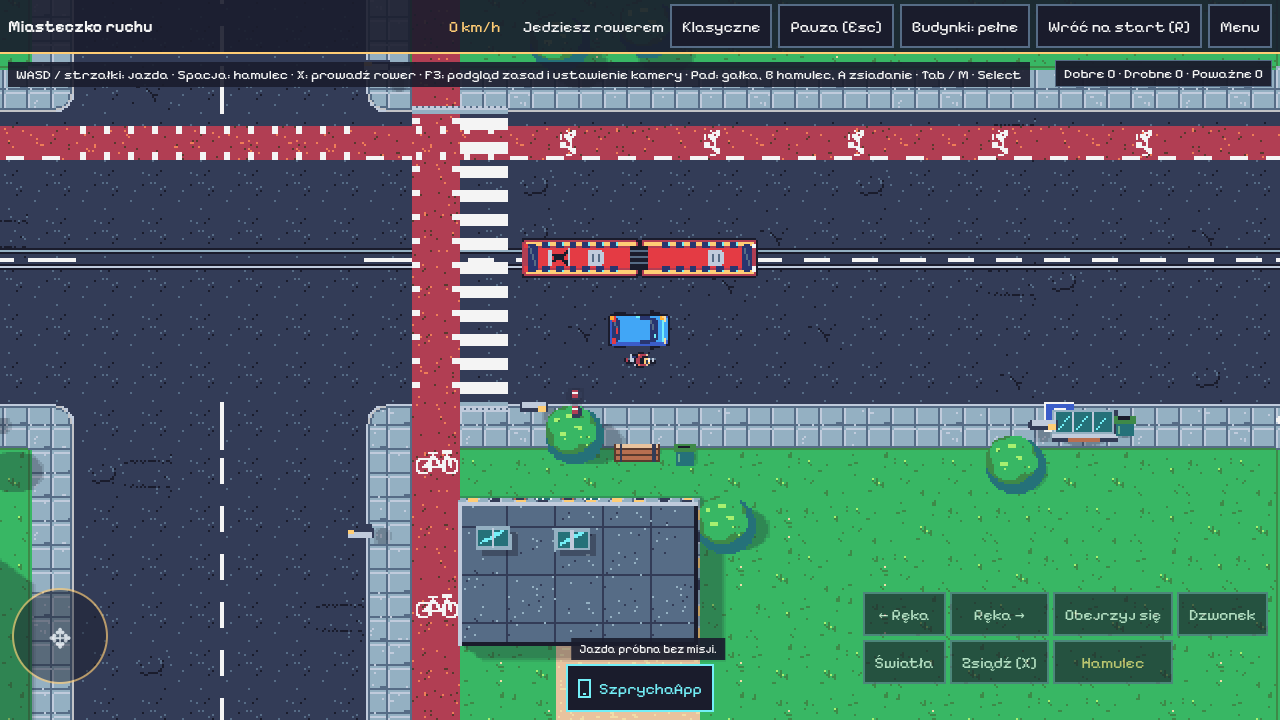
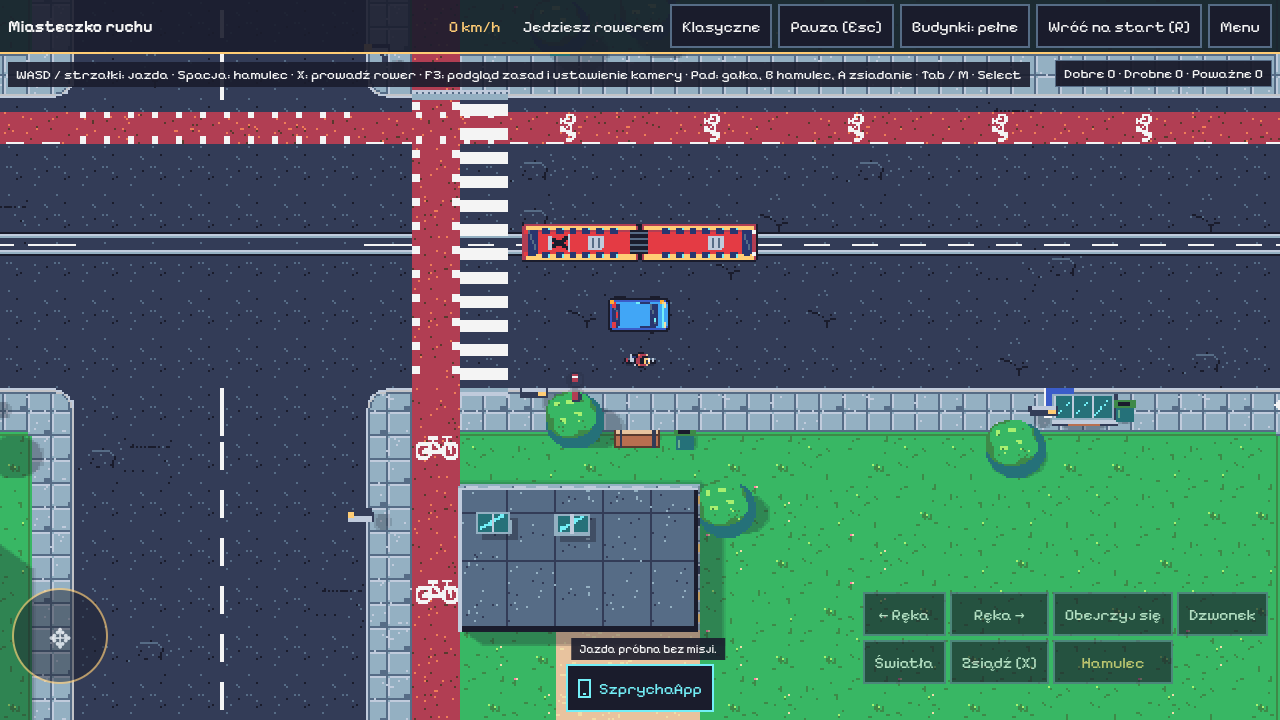
fix: dopasuj przejazd przy rondzie po integracji M4d

diff --git a/tools/gen-warsaw-map.ts b/tools/gen-warsaw-map.ts
@@ -262,7 +262,15 @@ function connectStreet(
     junction,
     side,
     embankment
-      ? [[2208, mapHeight], [2208, 1080], [2184, 1056], end]
+      ? [
+          [2208, mapHeight],
+          [2208, 1104],
+          [2204, 1086],
+          [2194, 1070],
+          [2178, 1060],
+          [2160, 1056],
+          end,
+        ]
       : [start, end],
     priority,
     turns,
@@ -274,7 +282,15 @@ function connectStreet(
       polyline(
         `${id}-out`,
         embankment
-          ? [out, [2120, 1120], [2144, 1144], [2144, mapHeight]]
+          ? [
+              out,
+              [2088, 1120],
+              [2109, 1124],
+              [2128, 1136],
+              [2140, 1155],
+              [2144, 1176],
+              [2144, mapHeight],
+            ]
           : [out, boundary(out, side)],
         {
           role: 'exit',

diff --git a/PROGRESS.md b/PROGRESS.md
@@ -170,3 +170,4 @@ Na kolejną prośbę użytkownika kamera miasta ma zoom 0,75: widoczny obszar je
 
 - Sprite’y ruchu korzystają z klatek atlasu w skali 1:1. Symulacja liczy obrysy, odstępy i zatrzymania z wymiarów w metrach, a kolizje z graczem wykorzystują skalę bieżącej mapy.
 - Przesunięto przystanek bez wysepki w Miasteczku, przejście przy światłach na tej mapie oraz przejście przy bazarze w Warszawie, aby pojazdy mogły je zwolnić przed linią zatrzymania.
+- Po dołączeniu #34 wyłagodzono łuki wjazdu i zjazdu z nasypu przy rondzie, żeby obrysy aut mieściły się na osobnych pasach.
